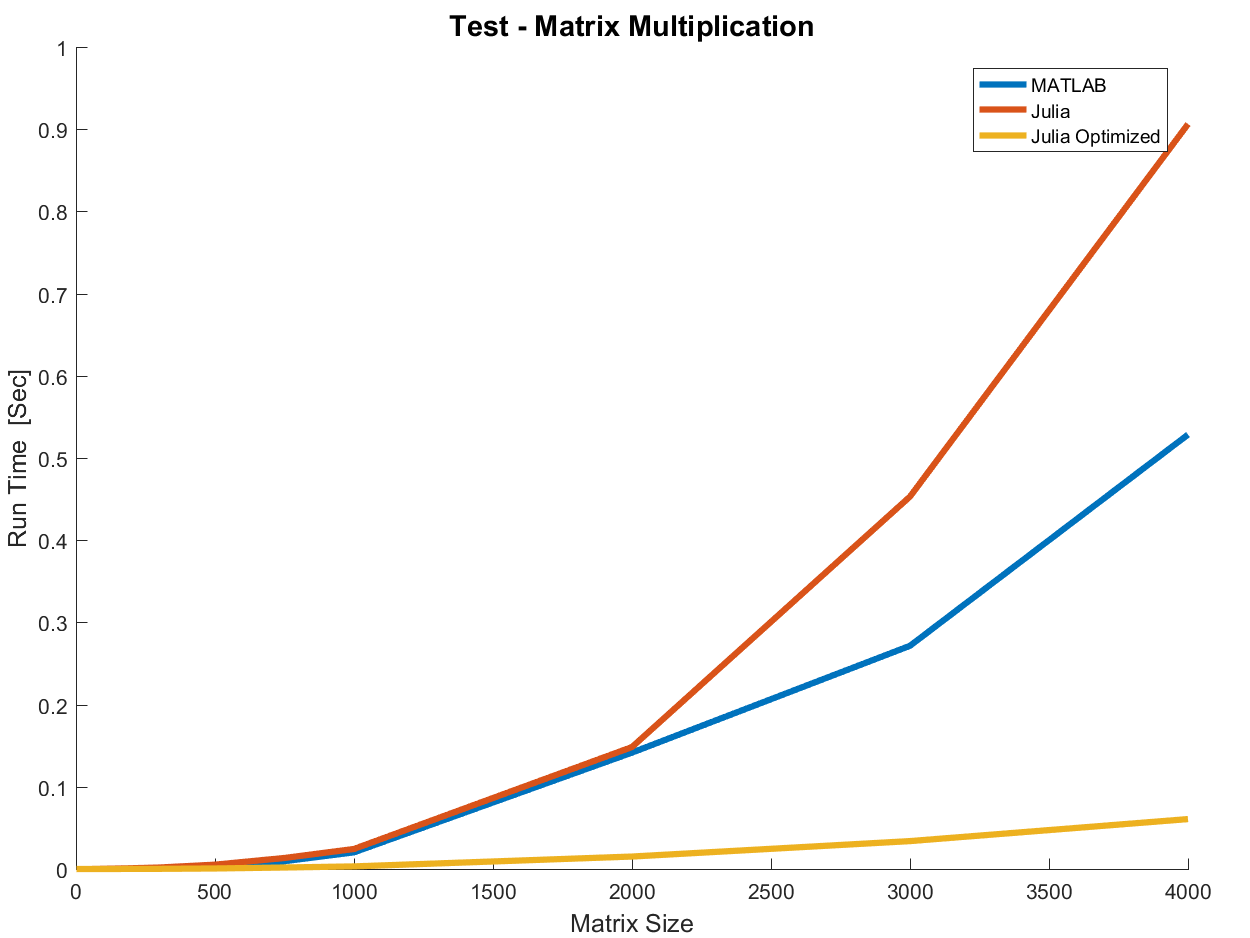
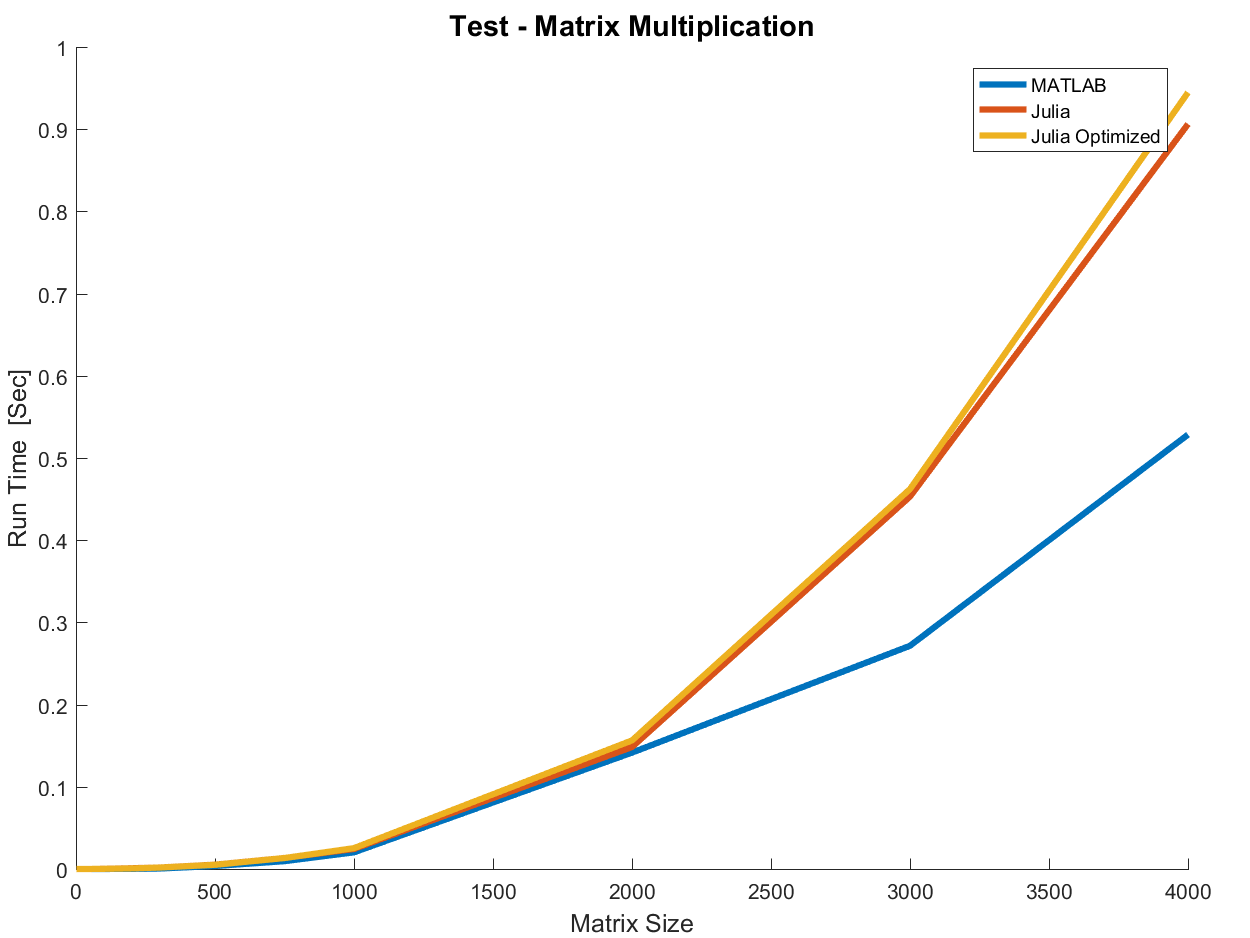
Version 1.0.005
New
	- 	Fixed bug in Matrix Multiplication for the Julia Optimized.
	- 	Added the ability to run specific test from each file.
Fixed
	- 	B
To Do
	- 	Since specific test can be chosen consider merging back to one file.

diff --git a/MatlabMatrixBenchmark0001.m b/MatlabMatrixBenchmark0001.m
@@ -1,4 +1,4 @@
-function [ mRunTime ] = MatlabMatrixBenchmark0001( operationMode )
+function [ mRunTime ] = MatlabMatrixBenchmark0001( operationMode, vTestIdx )
 % ----------------------------------------------------------------------------------------------- %
 % MATLAB Matrix Operations Benchmark - Test Suite 0001
 % Reference:
@@ -8,6 +8,8 @@ function [ mRunTime ] = MatlabMatrixBenchmark0001( operationMode )
 % TODO:
 %   1.  A
 %   Release Notes:
+%	- 	1.0.003 	12/02/2017	Royi Avital
+% 		* 	Ability to run only some of the tests.
 %   -   1.0.002     10/02/2017  Royi Avital
 %       *   Added generation of 'mX' and 'mY' once outside the functions.
 %       *   Fixed issue with the Quadratic Form.
@@ -26,14 +28,19 @@ TRUE    = 1;
 OFF     = 0;
 ON      = 1;
 
+RUN_TIME_DATA_FOLDER    = 'RunTimeData';
+RUN_TIME_FILE_NAME      = 'RunTimeMatlab0001.csv';
+
 OPERATION_MODE_PARTIAL  = 1; %<! For Testing (Runs Fast)
 OPERATION_MODE_FULL     = 2;
 
-cRunTimeFunctions = {@MatrixGenerationRunTime, @MatrixAdditionRunTime, @MatrixMultiplicationRunTime, ...
+cRunTimeFunctionsBase = {@MatrixGenerationRunTime, @MatrixAdditionRunTime, @MatrixMultiplicationRunTime, ...
     @MatrixQuadraticFormRunTime, @MatrixReductionsRunTime, @ElementWiseOperationsRunTime};
 
-cFunctionString = {['Matrix Generation'], ['Matrix Addition'], ['Matrix Multiplication'], ...
+cFunctionStringBase = {['Matrix Generation'], ['Matrix Addition'], ['Matrix Multiplication'], ...
     ['Matrix Quadratic Form'], ['Matrix Reductions'], ['Element Wise Operations']};
+
+numTests = length(cRunTimeFunctionsBase);
 
 if(operationMode == OPERATION_MODE_PARTIAL)
     vMatrixSize = csvread('vMatrixSizePartial.csv');
@@ -42,6 +49,9 @@ elseif(operationMode == OPERATION_MODE_FULL)
     vMatrixSize = csvread('vMatrixSizeFull.csv');
     numIterations = csvread('numIterationsFull.csv');
 end
+
+cRunTimeFunctions = cRunTimeFunctionsBase(vTestIdx);
+cFunctionString = cFunctionStringBase(vTestIdx);
 
 mRunTime = zeros(length(vMatrixSize), length(cRunTimeFunctions), numIterations);
 
@@ -65,7 +75,23 @@ mRunTime = median(mRunTime, 3);
 
 disp(['Finished the Benchmark in ', num2str(totalRunTime), ' [Sec]']);
 
-csvwrite('RunTimeMatlab0001.csv', mRunTime);
+runTimeFilePath = fullfile(RUN_TIME_DATA_FOLDER, RUN_TIME_FILE_NAME);
+
+mRunTimeBase = 0;
+if(exist(runTimeFilePath, 'file'))
+    mRunTimeBase = csvread(runTimeFilePath);
+end
+
+if(any(size(mRunTimeBase) ~= [length(vMatrixSize), numTests]))
+    % Previous Data has incompatible dimensions
+    mRunTimeBase = zeros([length(vMatrixSize), numTests]);
+end
+
+mRunTimeBase(:, vTestIdx) = mRunTime;
+
+if(operationMode == OPERATION_MODE_FULL)
+    csvwrite(runTimeFilePath, mRunTimeBase);
+end
 
 
 end

diff --git a/MatlabMatrixBenchmark0003.m b/MatlabMatrixBenchmark0003.m
@@ -1,4 +1,4 @@
-function [ mRunTime ] = MatlabMatrixBenchmark0003( operationMode )
+function [ mRunTime ] = MatlabMatrixBenchmark0003( operationMode, vTestIdx )
 % ----------------------------------------------------------------------------------------------- %
 % MATLAB Matrix Operations Benchmark - Test Suite 0003
 % Reference:
@@ -8,6 +8,8 @@ function [ mRunTime ] = MatlabMatrixBenchmark0003( operationMode )
 % TODO:
 %   1.  A
 %   Release Notes:
+%	- 	1.0.003 	12/02/2017	Royi Avital
+% 		* 	Ability to run only some of the tests.
 %   -   1.0.002     10/02/2017  Royi Avital
 %       *   Added 'KMeansRunTime()'.
 %       *   Added generation of 'mX' once outside the functions.
@@ -26,12 +28,17 @@ TRUE    = 1;
 OFF     = 0;
 ON      = 1;
 
+RUN_TIME_DATA_FOLDER    = 'RunTimeData';
+RUN_TIME_FILE_NAME      = 'RunTimeMatlab0003.csv';
+
 OPERATION_MODE_PARTIAL  = 1; %<! For Testing (Runs Fast)
 OPERATION_MODE_FULL     = 2;
 
-cRunTimeFunctions = {@LinearSystemRunTime, @LeastSquaresRunTime, @CalcDistanceMatrixRunTime, @KMeansRunTime};
+cRunTimeFunctionsBase = {@LinearSystemRunTime, @LeastSquaresRunTime, @CalcDistanceMatrixRunTime, @KMeansRunTime};
 
-cFunctionString = {['Linear System Solution'], ['Linear Least Squares'], ['Squared Distance Matrix'], ['K-Means Run Time']};
+cFunctionStringBase = {['Linear System Solution'], ['Linear Least Squares'], ['Squared Distance Matrix'], ['K-Means Run Time']};
+
+numTests = length(cRunTimeFunctionsBase);
 
 if(operationMode == OPERATION_MODE_PARTIAL)
     vMatrixSize = csvread('vMatrixSizePartial.csv');
@@ -40,6 +47,9 @@ elseif(operationMode == OPERATION_MODE_FULL)
     vMatrixSize = csvread('vMatrixSizeFull.csv');
     numIterations = csvread('numIterationsFull.csv');
 end
+
+cRunTimeFunctions = cRunTimeFunctionsBase(vTestIdx);
+cFunctionString = cFunctionStringBase(vTestIdx);
 
 mRunTime = zeros(length(vMatrixSize), length(cRunTimeFunctions), numIterations);
 
@@ -62,7 +72,23 @@ mRunTime = median(mRunTime, 3);
 
 disp(['Finished the Benchmark in ', num2str(totalRunTime), ' [Sec]']);
 
-csvwrite('RunTimeMatlab0003.csv', mRunTime);
+runTimeFilePath = fullfile(RUN_TIME_DATA_FOLDER, RUN_TIME_FILE_NAME);
+
+mRunTimeBase = 0;
+if(exist(runTimeFilePath, 'file'))
+    mRunTimeBase = csvread(runTimeFilePath);
+end
+
+if(any(size(mRunTimeBase) ~= [length(vMatrixSize), numTests]))
+    % Previous Data has incompatible dimensions
+    mRunTimeBase = zeros([length(vMatrixSize), numTests]);
+end
+
+mRunTimeBase(:, vTestIdx) = mRunTime;
+
+if(operationMode == OPERATION_MODE_FULL)
+    csvwrite(runTimeFilePath, mRunTimeBase);
+end
 
 
 end

diff --git a/MatlabMatrixBenchmark0002.m b/MatlabMatrixBenchmark0002.m
@@ -1,4 +1,4 @@
-function [ mRunTime ] = MatlabMatrixBenchmark0002( operationMode )
+function [ mRunTime ] = MatlabMatrixBenchmark0002( operationMode, vTestIdx )
 % ----------------------------------------------------------------------------------------------- %
 % MATLAB Matrix Operations Benchmark - Test Suite 0002
 % Reference:
@@ -8,6 +8,8 @@ function [ mRunTime ] = MatlabMatrixBenchmark0002( operationMode )
 % TODO:
 %   1.  A
 %   Release Notes:
+%	- 	1.0.003 	12/02/2017	Royi Avital
+% 		* 	Ability to run only some of the tests.
 %   -   1.0.002     10/02/2017  Royi Avital
 %       *   Added generation of 'mX' once outside the functions.
 %   -   1.0.001     09/02/2017  Royi Avital
@@ -25,14 +27,19 @@ TRUE    = 1;
 OFF     = 0;
 ON      = 1;
 
+RUN_TIME_DATA_FOLDER    = 'RunTimeData';
+RUN_TIME_FILE_NAME      = 'RunTimeMatlab0002.csv';
+
 OPERATION_MODE_PARTIAL  = 1; %<! For Testing (Runs Fast)
 OPERATION_MODE_FULL     = 2;
 
-cRunTimeFunctions = {@MatrixExpRunTime, @MatrixSqrtRunTime, ...
+cRunTimeFunctionsBase = {@MatrixExpRunTime, @MatrixSqrtRunTime, ...
     @SvdRunTime, @EigRunTime, @CholDecRunTime, @MatInvRunTime};
 
-cFunctionString = {['Matrix Exponential'], ['Matrix Square Root'], ['SVD'], ...
+cFunctionStringBase = {['Matrix Exponential'], ['Matrix Square Root'], ['SVD'], ...
     ['Eigen Decomposition'], ['Cholesky Decomposition'], ['Matrix Inversion']};
+
+numTests = length(cRunTimeFunctionsBase);
 
 if(operationMode == OPERATION_MODE_PARTIAL)
     vMatrixSize = csvread('vMatrixSizePartial.csv');
@@ -41,6 +48,9 @@ elseif(operationMode == OPERATION_MODE_FULL)
     vMatrixSize = csvread('vMatrixSizeFull.csv');
     numIterations = csvread('numIterationsFull.csv');
 end
+
+cRunTimeFunctions = cRunTimeFunctionsBase(vTestIdx);
+cFunctionString = cFunctionStringBase(vTestIdx);
 
 mRunTime = zeros(length(vMatrixSize), length(cRunTimeFunctions), numIterations);
 
@@ -63,7 +73,23 @@ mRunTime = median(mRunTime, 3);
 
 disp(['Finished the Benchmark in ', num2str(totalRunTime), ' [Sec]']);
 
-csvwrite('RunTimeMatlab0002.csv', mRunTime);
+runTimeFilePath = fullfile(RUN_TIME_DATA_FOLDER, RUN_TIME_FILE_NAME);
+
+mRunTimeBase = 0;
+if(exist(runTimeFilePath, 'file'))
+    mRunTimeBase = csvread(runTimeFilePath);
+end
+
+if(any(size(mRunTimeBase) ~= [length(vMatrixSize), numTests]))
+    % Previous Data has incompatible dimensions
+    mRunTimeBase = zeros([length(vMatrixSize), numTests]);
+end
+
+mRunTimeBase(:, vTestIdx) = mRunTime;
+
+if(operationMode == OPERATION_MODE_FULL)
+    csvwrite(runTimeFilePath, mRunTimeBase);
+end
 
 
 end
